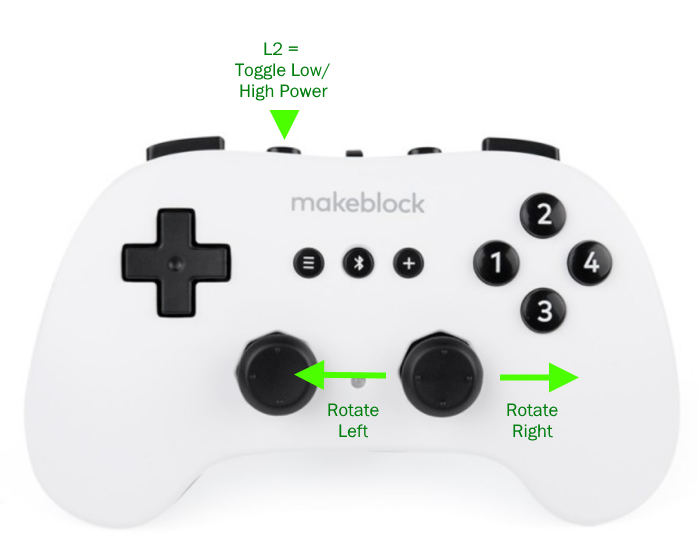
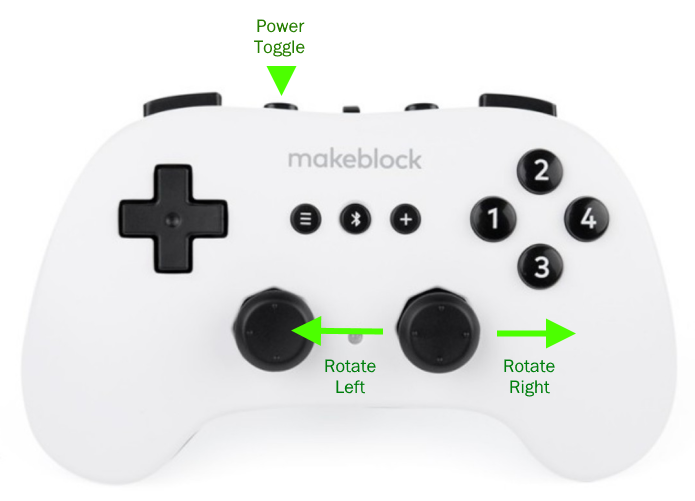
Adding low/med/high speed; set LEDs to red/yellow/green accordingly.  Update docs

diff --git a/MBot_Mega_Drive1/README.md b/MBot_Mega_Drive1/README.md
@@ -16,8 +16,10 @@ By default, the motors run at max. 50% speed, due to this line:
 float motor_limit = LOW_SPEED;
 ```
 
-However, if you push the L2 button on the controller, it'll toggle between
-LOW_SPEED (50%) and HIGH_SPEED (100%) motor limits.
+However, if you push the L2 button on the controller, it'll cycle between
+LOW_SPEED (50%), MID_SPEED (75%), and HIGH_SPEED (100%) motor limits.
+
+We also set the LEDs to red, yellow, and green according to the power setting.
 
 Note the official documentation says not to run the motors at 100%
 when you're using Bluetooth unless you're using Lithium Ion batteries, because there's not
